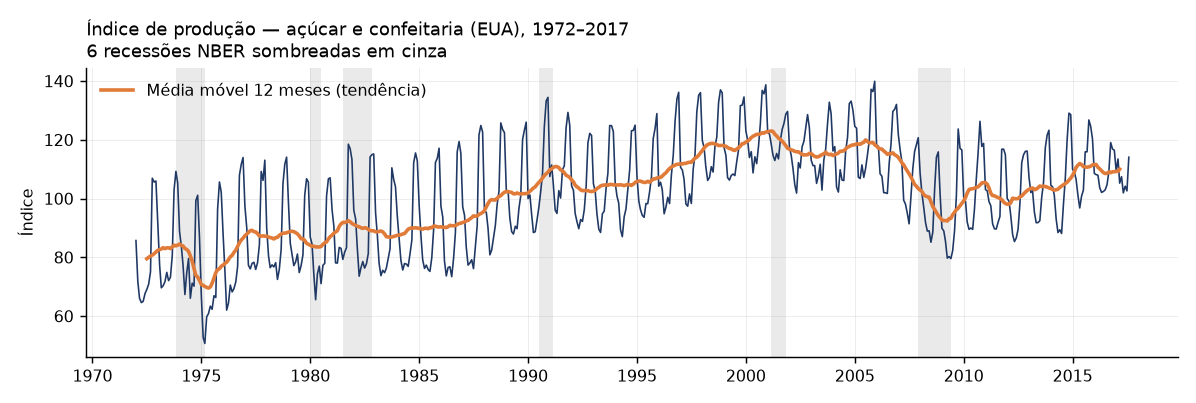
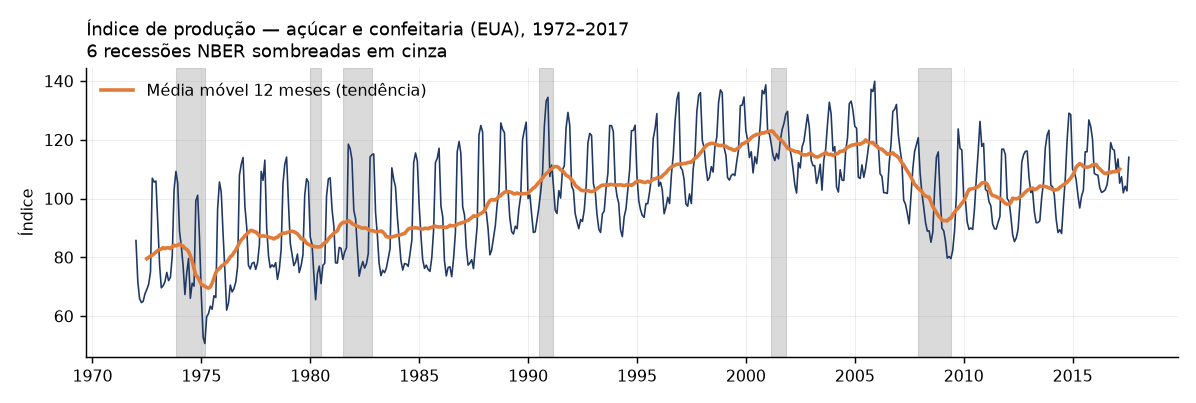
Aumenta a visibilidade das faixas de recessão NBER na figura 01
As faixas ocupam de 1% a 3% da largura do eixo; com alpha 0.18 ficavam
imperceptíveis e a legenda prometia um sombreado que o leitor não achava.

diff --git a/scripts/run_eda.py b/scripts/run_eda.py
@@ -81,8 +81,12 @@ PERIODO = f"{y.index.min().year}–{y.index.max().year}"
 recessoes = [(pd.Timestamp(a), pd.Timestamp(b)) for a, b in NBER_RECESSIONS
              if pd.Timestamp(b) >= y.index.min() and pd.Timestamp(a) <= y.index.max()]
 fig, ax = plt.subplots(figsize=(9.2, 3.1))
+# As faixas de recessão são estreitas — a de 1980 durou 6 meses, cerca de 1%
+# da largura do eixo. Com opacidade baixa elas somem, e a legenda passa a
+# prometer um sombreado que o leitor não encontra, o que é pior que não ter.
+# Opacidade maior e uma borda fina resolvem sem competir com a série.
 for a, b in recessoes:
-    ax.axvspan(a, b, color=GREY, alpha=0.18, lw=0)
+    ax.axvspan(a, b, color=GREY, alpha=0.32, lw=0.6, edgecolor=GREY)
 ax.plot(y.index, y.values, color=NAVY, lw=0.9)
 ax.plot(y.index, y.rolling(12, center=True).mean(), color=ORANGE, lw=2.0,
         label="Média móvel 12 meses (tendência)")
